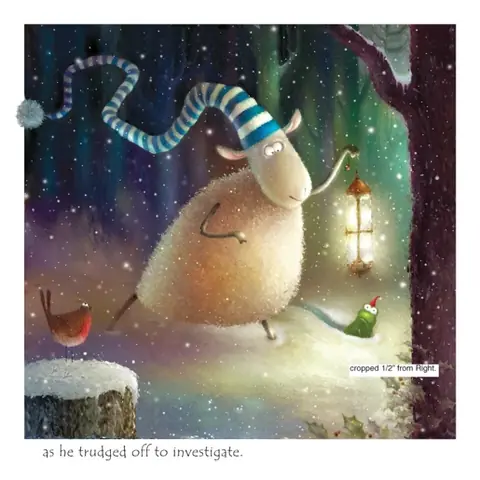
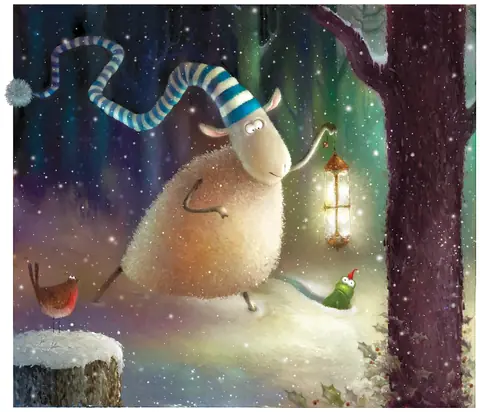
Russell page: clean page-9 picture; apostrophes in captions
- Page 9 ("trudged off") now uses a clean copy cut from Rob's file, without
  the printer's "cropped 1/2 in from right" note; 480/800/1200 px
- Viewer captions and alt text showed &#8217; instead of an apostrophe
  in seven places on the Russell page; builder now writes ’ directly

Claude-Session: https://claude.ai/code/session_017yD6ZUHwFALGaU6ihYKjiS

diff --git a/site/russell.html b/site/russell.html
@@ -44,7 +44,7 @@
 <section class="band tight inside" aria-label="Pictures from Russell the Sheep">
   <div class="wrap"><div class="inside-row">
     <figure style="margin:0" class="art tilt-l"><img src="img/cover-russell-sheep-493.webp" srcset="img/cover-russell-sheep-480.webp 480w, img/cover-russell-sheep-493.webp 493w" sizes="(max-width:860px) 45vw, 22vw" width="493" height="500" alt="Russell the Sheep book cover" loading="lazy" decoding="async" ></figure>
-    <figure style="margin:0"><button class="zoom art" data-full="img/russell-what-to-do-1200.webp" data-caption="What&amp;#8217;s a sheep to do?" aria-label="View larger: Russell standing wide awake in his striped nightcap"><img src="img/russell-what-to-do-1200.webp" srcset="img/russell-what-to-do-480.webp 480w, img/russell-what-to-do-800.webp 800w, img/russell-what-to-do-1200.webp 1200w" sizes="(max-width:540px) 100vw, (max-width:900px) 50vw, 33vw" width="1200" height="1200" alt="Russell standing wide awake in his striped nightcap" loading="lazy" decoding="async" ></button><figcaption>What&#8217;s a sheep to do?</figcaption></figure>
+    <figure style="margin:0"><button class="zoom art" data-full="img/russell-what-to-do-1200.webp" data-caption="What’s a sheep to do?" aria-label="View larger: Russell standing wide awake in his striped nightcap"><img src="img/russell-what-to-do-1200.webp" srcset="img/russell-what-to-do-480.webp 480w, img/russell-what-to-do-800.webp 800w, img/russell-what-to-do-1200.webp 1200w" sizes="(max-width:540px) 100vw, (max-width:900px) 50vw, 33vw" width="1200" height="1200" alt="Russell standing wide awake in his striped nightcap" loading="lazy" decoding="async" ></button><figcaption>What&#8217;s a sheep to do?</figcaption></figure>
     <figure style="margin:0"><button class="zoom art" data-full="img/russell-swing-1200.webp" data-caption="One more try" aria-label="View larger: Russell swinging from a tree while Frankie clings to the trunk"><img src="img/russell-swing-1200.webp" srcset="img/russell-swing-480.webp 480w, img/russell-swing-800.webp 800w, img/russell-swing-1200.webp 1200w" sizes="(max-width:540px) 100vw, (max-width:900px) 50vw, 33vw" width="1200" height="1200" alt="Russell swinging from a tree while Frankie clings to the trunk" loading="lazy" decoding="async" ></button><figcaption>One more try</figcaption></figure>
     <figure style="margin:0"><button class="zoom art" data-full="img/russell-sleeps-1200.webp" data-caption="Russell sleeps, at last!" aria-label="View larger: Russell asleep under a patchwork quilt"><img src="img/russell-sleeps-1200.webp" srcset="img/russell-sleeps-480.webp 480w, img/russell-sleeps-800.webp 800w, img/russell-sleeps-1200.webp 1200w" sizes="(max-width:540px) 100vw, (max-width:900px) 50vw, 33vw" width="1200" height="1200" alt="Russell asleep under a patchwork quilt" loading="lazy" decoding="async" ></button><figcaption>Russell sleeps, at last!</figcaption></figure>
   </div></div>
@@ -86,10 +86,10 @@
 <section class="band tight inside" aria-label="Pictures from Russell's Christmas Magic">
   <div class="wrap">
     <div class="inside-row">
-      <figure style="margin:0" class="art tilt-l"><img src="img/cover-russell-xmas-312.webp" srcset="img/cover-russell-xmas-312.webp 312w" sizes="(max-width:860px) 60vw, 22vw" width="312" height="312" alt="Russell&amp;#8217;s Christmas Magic book cover" loading="lazy" decoding="async" ></figure>
-      <figure style="margin:0"><button class="zoom art" data-full="img/russell-p8-495.webp" data-caption="Russell&amp;#8217;s Christmas Magic" aria-label="View larger: Russell trudging through the snow"><img src="img/russell-p8-495.webp" srcset="img/russell-p8-480.webp 480w, img/russell-p8-495.webp 495w" sizes="(max-width:540px) 100vw, (max-width:900px) 50vw, 33vw" width="495" height="495" alt="Russell trudging through the snow" loading="lazy" decoding="async" ></button><figcaption>Russell&#8217;s Christmas Magic</figcaption></figure>
-      <figure style="margin:0"><button class="zoom art" data-full="img/russell-p9-515.webp" data-caption="Russell&amp;#8217;s Christmas Magic" aria-label="View larger: Russell listening at the edge of the wood"><img src="img/russell-p9-515.webp" srcset="img/russell-p9-480.webp 480w, img/russell-p9-515.webp 515w" sizes="(max-width:540px) 100vw, (max-width:900px) 50vw, 33vw" width="515" height="515" alt="Russell listening at the edge of the wood" loading="lazy" decoding="async" ></button><figcaption>Russell&#8217;s Christmas Magic</figcaption></figure>
-      <figure style="margin:0"><button class="zoom art" data-full="img/russell-art-14-963.webp" data-caption="Russell&amp;#8217;s Christmas Magic" aria-label="View larger: Santa&amp;#8217;s crashed sleigh in the snow"><img src="img/russell-art-14-963.webp" srcset="img/russell-art-14-480.webp 480w, img/russell-art-14-800.webp 800w, img/russell-art-14-963.webp 963w" sizes="(max-width:540px) 100vw, (max-width:900px) 50vw, 33vw" width="963" height="393" alt="Santa&amp;#8217;s crashed sleigh in the snow" loading="lazy" decoding="async" ></button><figcaption>Russell&#8217;s Christmas Magic</figcaption></figure>
+      <figure style="margin:0" class="art tilt-l"><img src="img/cover-russell-xmas-312.webp" srcset="img/cover-russell-xmas-312.webp 312w" sizes="(max-width:860px) 60vw, 22vw" width="312" height="312" alt="Russell’s Christmas Magic book cover" loading="lazy" decoding="async" ></figure>
+      <figure style="margin:0"><button class="zoom art" data-full="img/russell-p8-495.webp" data-caption="Russell’s Christmas Magic" aria-label="View larger: Russell trudging through the snow"><img src="img/russell-p8-495.webp" srcset="img/russell-p8-480.webp 480w, img/russell-p8-495.webp 495w" sizes="(max-width:540px) 100vw, (max-width:900px) 50vw, 33vw" width="495" height="495" alt="Russell trudging through the snow" loading="lazy" decoding="async" ></button><figcaption>Russell&#8217;s Christmas Magic</figcaption></figure>
+      <figure style="margin:0"><button class="zoom art" data-full="img/russell-p9-1200.webp" data-caption="Russell’s Christmas Magic" aria-label="View larger: Russell listening at the edge of the wood"><img src="img/russell-p9-1200.webp" srcset="img/russell-p9-480.webp 480w, img/russell-p9-800.webp 800w, img/russell-p9-1200.webp 1200w" sizes="(max-width:540px) 100vw, (max-width:900px) 50vw, 33vw" width="1200" height="1030" alt="Russell listening at the edge of the wood" loading="lazy" decoding="async" ></button><figcaption>Russell&#8217;s Christmas Magic</figcaption></figure>
+      <figure style="margin:0"><button class="zoom art" data-full="img/russell-art-14-963.webp" data-caption="Russell’s Christmas Magic" aria-label="View larger: Santa’s crashed sleigh in the snow"><img src="img/russell-art-14-963.webp" srcset="img/russell-art-14-480.webp 480w, img/russell-art-14-800.webp 800w, img/russell-art-14-963.webp 963w" sizes="(max-width:540px) 100vw, (max-width:900px) 50vw, 33vw" width="963" height="393" alt="Santa’s crashed sleigh in the snow" loading="lazy" decoding="async" ></button><figcaption>Russell&#8217;s Christmas Magic</figcaption></figure>
     </div>
   </div>
 </section>
@@ -128,7 +128,7 @@
 <section class="band buy-band" id="buy" aria-labelledby="buy-h">
   <div class="wrap">
     <div class="buy-head"><div><h2 id="buy-h">Where to buy Russell</h2><p class="lede">Russell the Sheep was first published by HarperCollins in the US and HarperCollins Children's Books in the UK. Choose your country to see the right editions.</p></div><div class="region-toggle" role="group" aria-label="Choose your country"><button type="button" data-set="us" aria-pressed="true">United States</button><button type="button" data-set="uk" aria-pressed="false">United Kingdom</button></div></div>
-    <div class="buy-grid" data-buy><article class="buy-card"><div class="buy-cover"><img src="img/cover-russell-sheep-493.webp" srcset="img/cover-russell-sheep-480.webp 480w, img/cover-russell-sheep-493.webp 493w" sizes="160px" width="493" height="500" alt="Russell the Sheep book cover" loading="lazy" decoding="async" ></div><div class="buy-body"><h3>Russell the Sheep</h3><p class="buy-note">The original story of a sheep who cannot sleep.</p><div class="region" data-region="us"><div class="fmt-row"><p class="fmt">Paperback <span>ISBN 9780062392435</span></p><div class="shops"><a class="shop" href="https://www.harpercollins.com/search?q=9780062392435" target="_blank" rel="noopener">HarperCollins</a><a class="shop" href="https://www.amazon.com/dp/0062392433" target="_blank" rel="noopener">Amazon</a><a class="shop" href="https://www.barnesandnoble.com/s/9780062392435" target="_blank" rel="noopener">Barnes &amp; Noble</a><a class="shop" href="https://bookshop.org/search?keywords=9780062392435" target="_blank" rel="noopener">Bookshop.org</a></div></div><div class="fmt-row"><p class="fmt">Board book <span>ISBN 9780061709968</span></p><div class="shops"><a class="shop" href="https://www.harpercollins.com/search?q=9780061709968" target="_blank" rel="noopener">HarperCollins</a><a class="shop" href="https://www.amazon.com/dp/0061709964" target="_blank" rel="noopener">Amazon</a><a class="shop" href="https://www.barnesandnoble.com/s/9780061709968" target="_blank" rel="noopener">Barnes &amp; Noble</a><a class="shop" href="https://bookshop.org/search?keywords=9780061709968" target="_blank" rel="noopener">Bookshop.org</a></div></div><div class="fmt-row"><p class="fmt">Hardcover <span>ISBN 9780060598488</span></p><div class="shops"><a class="shop" href="https://www.harpercollins.com/search?q=9780060598488" target="_blank" rel="noopener">HarperCollins</a><a class="shop" href="https://www.amazon.com/dp/0060598484" target="_blank" rel="noopener">Amazon</a><a class="shop" href="https://www.barnesandnoble.com/s/9780060598488" target="_blank" rel="noopener">Barnes &amp; Noble</a><a class="shop" href="https://bookshop.org/search?keywords=9780060598488" target="_blank" rel="noopener">Bookshop.org</a></div></div></div><div class="region" data-region="uk" hidden><div class="fmt-row"><p class="fmt">UK edition <span>ISBN 9780007206223</span></p><div class="shops"><a class="shop" href="https://www.amazon.co.uk/s?k=9780007206223&amp;i=stripbooks" target="_blank" rel="noopener">Amazon UK</a><a class="shop" href="https://blackwells.co.uk/bookshop/search/?keyword=9780007206223" target="_blank" rel="noopener">Blackwell&#8217;s</a><a class="shop" href="https://uk.bookshop.org/search?keywords=9780007206223" target="_blank" rel="noopener">Bookshop.org UK</a></div></div></div></div></article><article class="buy-card"><div class="buy-cover"><img src="img/cover-russell-treasure-500.webp" srcset="img/cover-russell-treasure-480.webp 480w, img/cover-russell-treasure-500.webp 500w" sizes="160px" width="500" height="484" alt="Russell and the Lost Treasure book cover" loading="lazy" decoding="async" ></div><div class="buy-body"><h3>Russell and the Lost Treasure</h3><p class="buy-note">Russell goes looking for treasure in Frogsbottom Field.</p><div class="region" data-region="us"><div class="fmt-row"><p class="fmt">Hardcover <span>ISBN 9780060598518</span></p><div class="shops"><a class="shop" href="https://www.harpercollins.com/search?q=9780060598518" target="_blank" rel="noopener">HarperCollins</a><a class="shop" href="https://www.amazon.com/dp/0060598514" target="_blank" rel="noopener">Amazon</a><a class="shop" href="https://www.barnesandnoble.com/s/9780060598518" target="_blank" rel="noopener">Barnes &amp; Noble</a><a class="shop" href="https://bookshop.org/search?keywords=9780060598518" target="_blank" rel="noopener">Bookshop.org</a></div></div></div><div class="region" data-region="uk" hidden><div class="fmt-row"><p class="fmt">UK edition <span>ISBN 9780007206254</span></p><div class="shops"><a class="shop" href="https://www.amazon.co.uk/s?k=9780007206254&amp;i=stripbooks" target="_blank" rel="noopener">Amazon UK</a><a class="shop" href="https://blackwells.co.uk/bookshop/search/?keyword=9780007206254" target="_blank" rel="noopener">Blackwell&#8217;s</a><a class="shop" href="https://uk.bookshop.org/search?keywords=9780007206254" target="_blank" rel="noopener">Bookshop.org UK</a></div></div></div></div></article><article class="buy-card"><div class="buy-cover"><img src="img/cover-russell-xmas-312.webp" srcset="img/cover-russell-xmas-312.webp 312w" sizes="160px" width="312" height="312" alt="Russell&amp;#8217;s Christmas Magic book cover" loading="lazy" decoding="async" ></div><div class="buy-body"><h3>Russell&#8217;s Christmas Magic</h3><p class="buy-note">Santa crashes in Firefly Wood, and Russell has a woolly idea.</p><div class="region" data-region="us"><div class="fmt-row"><p class="fmt">Hardcover <span>ISBN 9780060598549</span></p><div class="shops"><a class="shop" href="https://www.harpercollins.com/search?q=9780060598549" target="_blank" rel="noopener">HarperCollins</a><a class="shop" href="https://www.amazon.com/dp/0060598549" target="_blank" rel="noopener">Amazon</a><a class="shop" href="https://www.barnesandnoble.com/s/9780060598549" target="_blank" rel="noopener">Barnes &amp; Noble</a><a class="shop" href="https://bookshop.org/search?keywords=9780060598549" target="_blank" rel="noopener">Bookshop.org</a></div></div></div><div class="region" data-region="uk" hidden><div class="fmt-row"><p class="fmt">UK edition <span>ISBN 9780007262946</span></p><div class="shops"><a class="shop" href="https://www.amazon.co.uk/s?k=9780007262946&amp;i=stripbooks" target="_blank" rel="noopener">Amazon UK</a><a class="shop" href="https://blackwells.co.uk/bookshop/search/?keyword=9780007262946" target="_blank" rel="noopener">Blackwell&#8217;s</a><a class="shop" href="https://uk.bookshop.org/search?keywords=9780007262946" target="_blank" rel="noopener">Bookshop.org UK</a></div></div></div></div></article></div>
+    <div class="buy-grid" data-buy><article class="buy-card"><div class="buy-cover"><img src="img/cover-russell-sheep-493.webp" srcset="img/cover-russell-sheep-480.webp 480w, img/cover-russell-sheep-493.webp 493w" sizes="160px" width="493" height="500" alt="Russell the Sheep book cover" loading="lazy" decoding="async" ></div><div class="buy-body"><h3>Russell the Sheep</h3><p class="buy-note">The original story of a sheep who cannot sleep.</p><div class="region" data-region="us"><div class="fmt-row"><p class="fmt">Paperback <span>ISBN 9780062392435</span></p><div class="shops"><a class="shop" href="https://www.harpercollins.com/search?q=9780062392435" target="_blank" rel="noopener">HarperCollins</a><a class="shop" href="https://www.amazon.com/dp/0062392433" target="_blank" rel="noopener">Amazon</a><a class="shop" href="https://www.barnesandnoble.com/s/9780062392435" target="_blank" rel="noopener">Barnes &amp; Noble</a><a class="shop" href="https://bookshop.org/search?keywords=9780062392435" target="_blank" rel="noopener">Bookshop.org</a></div></div><div class="fmt-row"><p class="fmt">Board book <span>ISBN 9780061709968</span></p><div class="shops"><a class="shop" href="https://www.harpercollins.com/search?q=9780061709968" target="_blank" rel="noopener">HarperCollins</a><a class="shop" href="https://www.amazon.com/dp/0061709964" target="_blank" rel="noopener">Amazon</a><a class="shop" href="https://www.barnesandnoble.com/s/9780061709968" target="_blank" rel="noopener">Barnes &amp; Noble</a><a class="shop" href="https://bookshop.org/search?keywords=9780061709968" target="_blank" rel="noopener">Bookshop.org</a></div></div><div class="fmt-row"><p class="fmt">Hardcover <span>ISBN 9780060598488</span></p><div class="shops"><a class="shop" href="https://www.harpercollins.com/search?q=9780060598488" target="_blank" rel="noopener">HarperCollins</a><a class="shop" href="https://www.amazon.com/dp/0060598484" target="_blank" rel="noopener">Amazon</a><a class="shop" href="https://www.barnesandnoble.com/s/9780060598488" target="_blank" rel="noopener">Barnes &amp; Noble</a><a class="shop" href="https://bookshop.org/search?keywords=9780060598488" target="_blank" rel="noopener">Bookshop.org</a></div></div></div><div class="region" data-region="uk" hidden><div class="fmt-row"><p class="fmt">UK edition <span>ISBN 9780007206223</span></p><div class="shops"><a class="shop" href="https://www.amazon.co.uk/s?k=9780007206223&amp;i=stripbooks" target="_blank" rel="noopener">Amazon UK</a><a class="shop" href="https://blackwells.co.uk/bookshop/search/?keyword=9780007206223" target="_blank" rel="noopener">Blackwell&#8217;s</a><a class="shop" href="https://uk.bookshop.org/search?keywords=9780007206223" target="_blank" rel="noopener">Bookshop.org UK</a></div></div></div></div></article><article class="buy-card"><div class="buy-cover"><img src="img/cover-russell-treasure-500.webp" srcset="img/cover-russell-treasure-480.webp 480w, img/cover-russell-treasure-500.webp 500w" sizes="160px" width="500" height="484" alt="Russell and the Lost Treasure book cover" loading="lazy" decoding="async" ></div><div class="buy-body"><h3>Russell and the Lost Treasure</h3><p class="buy-note">Russell goes looking for treasure in Frogsbottom Field.</p><div class="region" data-region="us"><div class="fmt-row"><p class="fmt">Hardcover <span>ISBN 9780060598518</span></p><div class="shops"><a class="shop" href="https://www.harpercollins.com/search?q=9780060598518" target="_blank" rel="noopener">HarperCollins</a><a class="shop" href="https://www.amazon.com/dp/0060598514" target="_blank" rel="noopener">Amazon</a><a class="shop" href="https://www.barnesandnoble.com/s/9780060598518" target="_blank" rel="noopener">Barnes &amp; Noble</a><a class="shop" href="https://bookshop.org/search?keywords=9780060598518" target="_blank" rel="noopener">Bookshop.org</a></div></div></div><div class="region" data-region="uk" hidden><div class="fmt-row"><p class="fmt">UK edition <span>ISBN 9780007206254</span></p><div class="shops"><a class="shop" href="https://www.amazon.co.uk/s?k=9780007206254&amp;i=stripbooks" target="_blank" rel="noopener">Amazon UK</a><a class="shop" href="https://blackwells.co.uk/bookshop/search/?keyword=9780007206254" target="_blank" rel="noopener">Blackwell&#8217;s</a><a class="shop" href="https://uk.bookshop.org/search?keywords=9780007206254" target="_blank" rel="noopener">Bookshop.org UK</a></div></div></div></div></article><article class="buy-card"><div class="buy-cover"><img src="img/cover-russell-xmas-312.webp" srcset="img/cover-russell-xmas-312.webp 312w" sizes="160px" width="312" height="312" alt="Russell’s Christmas Magic book cover" loading="lazy" decoding="async" ></div><div class="buy-body"><h3>Russell&#8217;s Christmas Magic</h3><p class="buy-note">Santa crashes in Firefly Wood, and Russell has a woolly idea.</p><div class="region" data-region="us"><div class="fmt-row"><p class="fmt">Hardcover <span>ISBN 9780060598549</span></p><div class="shops"><a class="shop" href="https://www.harpercollins.com/search?q=9780060598549" target="_blank" rel="noopener">HarperCollins</a><a class="shop" href="https://www.amazon.com/dp/0060598549" target="_blank" rel="noopener">Amazon</a><a class="shop" href="https://www.barnesandnoble.com/s/9780060598549" target="_blank" rel="noopener">Barnes &amp; Noble</a><a class="shop" href="https://bookshop.org/search?keywords=9780060598549" target="_blank" rel="noopener">Bookshop.org</a></div></div></div><div class="region" data-region="uk" hidden><div class="fmt-row"><p class="fmt">UK edition <span>ISBN 9780007262946</span></p><div class="shops"><a class="shop" href="https://www.amazon.co.uk/s?k=9780007262946&amp;i=stripbooks" target="_blank" rel="noopener">Amazon UK</a><a class="shop" href="https://blackwells.co.uk/bookshop/search/?keyword=9780007262946" target="_blank" rel="noopener">Blackwell&#8217;s</a><a class="shop" href="https://uk.bookshop.org/search?keywords=9780007262946" target="_blank" rel="noopener">Bookshop.org UK</a></div></div></div></div></article></div>
     <p class="buy-fine">Links open the retailer&#8217;s own site. Availability, editions and prices are set by each retailer.</p>
   </div>
 </section>

diff --git a/tools/build.py b/tools/build.py
@@ -216,7 +216,7 @@ def isbn10(i13):
     return core+('X' if c==10 else str(c))
 
 US_SHOPS=[("HarperCollins","https://www.harpercollins.com/search?q={i13}"),("Amazon","https://www.amazon.com/dp/{i10}"),("Barnes &amp; Noble","https://www.barnesandnoble.com/s/{i13}"),("Bookshop.org","https://bookshop.org/search?keywords={i13}")]
-UK_SHOPS=[("Amazon UK","https://www.amazon.co.uk/s?k={i13}&amp;i=stripbooks"),("Blackwell&#8217;s","https://blackwells.co.uk/bookshop/search/?keyword={i13}"),("Bookshop.org UK","https://uk.bookshop.org/search?keywords={i13}")]
+UK_SHOPS=[("Amazon UK","https://www.amazon.co.uk/s?k={i13}&amp;i=stripbooks"),("Blackwell’s","https://blackwells.co.uk/bookshop/search/?keyword={i13}"),("Bookshop.org UK","https://uk.bookshop.org/search?keywords={i13}")]
 
 def shop_links(i13, shops):
     return "".join(f'<a class="shop" href="{u.format(i13=i13,i10=isbn10(i13))}" target="_blank" rel="noopener">{n}</a>' for n,u in shops)
@@ -235,7 +235,7 @@ def buy_section(heading, intro, cards, regions=False):
   <div class="wrap">
     <div class="buy-head"><div><h2 id="buy-h">{heading}</h2><p class="lede">{intro}</p></div>{toggle}</div>
     <div class="buy-grid" data-buy>{"".join(cards)}</div>
-    <p class="buy-fine">Links open the retailer&#8217;s own site. Availability, editions and prices are set by each retailer.</p>
+    <p class="buy-fine">Links open the retailer’s own site. Availability, editions and prices are set by each retailer.</p>
   </div>
 </section>
 '''
@@ -352,7 +352,7 @@ story = """<p>I was riding my bike through a field in Rutland, near where I live
 <blockquote>By Granny Oldwool’s beard, there may be something there…</blockquote>
 <p>Oh, and of course, there’s also a little frog… and an ant. Job done!</p>"""
 
-DRAWERS = [("russell-the-sheep","Russell the Sheep"),("lost-treasure","Lost Treasure"),("christmas-magic","Christmas Magic"),("story","Russell&#8217;s story")]
+DRAWERS = [("russell-the-sheep","Russell the Sheep"),("lost-treasure","Lost Treasure"),("christmas-magic","Christmas Magic"),("story","Russell’s story")]
 drw_chips = '<nav class="drw-chips" aria-label="On this page">' + "".join(f'<a href="#{k}">{t}</a>' for k,t in DRAWERS) + '</nav>'
 
 russell = f'''
@@ -362,7 +362,7 @@ russell = f'''
   <div class="wrap"><div class="copy">
     <p class="kicker">Book one, 2005</p>
     <h1>Russell the Sheep</h1>
-    <p class="lede">Night falls on Frogsbottom Field and every sheep is fast asleep, except Russell. He tries everything: a new hat, a bed up a tree, counting his feet, counting the stars. There&#8217;s only one thing left to try. Counting sheep!</p>
+    <p class="lede">Night falls on Frogsbottom Field and every sheep is fast asleep, except Russell. He tries everything: a new hat, a bed up a tree, counting his feet, counting the stars. There’s only one thing left to try. Counting sheep!</p>
     <a class="btn teal" href="#buy">Where to buy {ARROW}</a>
   </div></div>
 </header>
@@ -370,7 +370,7 @@ russell = f'''
 <section class="band tight inside" aria-label="Pictures from Russell the Sheep">
   <div class="wrap"><div class="inside-row">
     <figure style="margin:0" class="art tilt-l">{pic("cover-russell-sheep","Russell the Sheep book cover","(max-width:860px) 45vw, 22vw")}</figure>
-    {zoom("russell-what-to-do","Russell standing wide awake in his striped nightcap","What&#8217;s a sheep to do?")}
+    {zoom("russell-what-to-do","Russell standing wide awake in his striped nightcap","What’s a sheep to do?")}
     {zoom("russell-swing","Russell swinging from a tree while Frankie clings to the trunk","One more try")}
     {zoom("russell-sleeps","Russell asleep under a patchwork quilt","Russell sleeps, at last!")}
   </div></div>
@@ -383,7 +383,7 @@ russell = f'''
   <div class="wrap"><div class="copy">
     <p class="kicker">Book two, 2006</p>
     <h2 id="treasure-h">Russell and the Lost Treasure</h2>
-    <p class="lede">Legend has it there&#8217;s a treasure lost somewhere in Frogsbottom Field. Russell builds a homemade treasure detector and goes looking, and the chest he finds holds a surprising prize.</p>
+    <p class="lede">Legend has it there’s a treasure lost somewhere in Frogsbottom Field. Russell builds a homemade treasure detector and goes looking, and the chest he finds holds a surprising prize.</p>
     <a class="btn teal" href="#buy">Where to buy {ARROW}</a>
   </div></div>
   <img class="frankie-peek" src="img/frankie-grin-193.webp" alt="" width="193" height="505" loading="lazy">
@@ -404,18 +404,18 @@ russell = f'''
   <div class="snow" aria-hidden="true"></div>
   <div class="wrap"><div class="copy">
     <p class="kicker">Book three, 2007</p>
-    <h2 id="xmas-h">Russell&#8217;s Christmas Magic</h2>
-    <p class="lede">Santa Claus&#8217;s sleigh crashes in Firefly Wood and the Christmas Spell is broken. Santa declares that Christmas must be cancelled. But our fleecy hero doesn&#8217;t give up easily, and he soon has a woolly idea that just might save the day.</p>
+    <h2 id="xmas-h">Russell’s Christmas Magic</h2>
+    <p class="lede">Santa Claus’s sleigh crashes in Firefly Wood and the Christmas Spell is broken. Santa declares that Christmas must be cancelled. But our fleecy hero doesn’t give up easily, and he soon has a woolly idea that just might save the day.</p>
     <a class="btn teal" href="#buy">Where to buy {ARROW}</a>
   </div></div>
 </section>
 <section class="band tight inside" aria-label="Pictures from Russell's Christmas Magic">
   <div class="wrap">
     <div class="inside-row">
-      <figure style="margin:0" class="art tilt-l">{pic("cover-russell-xmas","Russell&#8217;s Christmas Magic book cover","(max-width:860px) 60vw, 22vw")}</figure>
-      {zoom("russell-p8","Russell trudging through the snow","Russell&#8217;s Christmas Magic")}
-      {zoom("russell-p9","Russell listening at the edge of the wood","Russell&#8217;s Christmas Magic")}
-      {zoom("russell-art-14","Santa&#8217;s crashed sleigh in the snow","Russell&#8217;s Christmas Magic")}
+      <figure style="margin:0" class="art tilt-l">{pic("cover-russell-xmas","Russell’s Christmas Magic book cover","(max-width:860px) 60vw, 22vw")}</figure>
+      {zoom("russell-p8","Russell trudging through the snow","Russell’s Christmas Magic")}
+      {zoom("russell-p9","Russell listening at the edge of the wood","Russell’s Christmas Magic")}
+      {zoom("russell-art-14","Santa’s crashed sleigh in the snow","Russell’s Christmas Magic")}
     </div>
   </div>
 </section>
@@ -444,9 +444,9 @@ russell = f'''
   <div class="fx" data-fx="count" data-x="54" data-y="52" aria-hidden="true"></div>
   <div class="wrap"><div class="copy">
     <p class="kicker">So how did it all begin?</p>
-    <h2 id="story-h">Russell&#8217;s story, according to Rob</h2>
-    <p class="lede">A bike ride through a field in Rutland, a flock of sheep staring back, and an idea Rob kept dismissing. Here&#8217;s how Russell came to be.</p>
-    <a class="btn" href="russells-story.html">Read Russell&#8217;s story {ARROW}</a>
+    <h2 id="story-h">Russell’s story, according to Rob</h2>
+    <p class="lede">A bike ride through a field in Rutland, a flock of sheep staring back, and an idea Rob kept dismissing. Here’s how Russell came to be.</p>
+    <a class="btn" href="russells-story.html">Read Russell’s story {ARROW}</a>
   </div></div>
 </section>
 
@@ -458,7 +458,7 @@ russell = f'''
    buy_card("Russell and the Lost Treasure","Russell goes looking for treasure in Frogsbottom Field.","cover-russell-treasure",
       [("Hardcover","9780060598518")],
       [("UK edition","9780007206254")]),
-   buy_card("Russell&#8217;s Christmas Magic","Santa crashes in Firefly Wood, and Russell has a woolly idea.","cover-russell-xmas",
+   buy_card("Russell’s Christmas Magic","Santa crashes in Firefly Wood, and Russell has a woolly idea.","cover-russell-xmas",
       [("Hardcover","9780060598549")],
       [("UK edition","9780007262946")])],
   regions=True)}
@@ -481,7 +481,7 @@ storypage = f'''
     <div class="split" style="align-items:start">
       <div>
         <p class="kicker" style="color:var(--teal-2)">So how did it all begin?</p>
-        <h1 id="story-h" style="font-size:clamp(2.4rem,5vw,4rem)">Russell&#8217;s story, according to Rob</h1>
+        <h1 id="story-h" style="font-size:clamp(2.4rem,5vw,4rem)">Russell’s story, according to Rob</h1>
         <div class="prose">{story}</div>
       </div>
       <div style="display:grid;gap:22px;position:sticky;top:90px">
@@ -580,7 +580,7 @@ about = f'''
       <p class="kicker">Author and artist</p>
       <h1>Meet Rob</h1>
       <p class="lede" style="color:var(--ink)">Rob Scotton is the bestselling author and illustrator behind Splat the Cat, Russell the Sheep and Max and Moonbean. He studied Illustration at De Montfort University, and lives and paints in Rutland, England, with his wife Liz, who is also an artist.</p>
-      <p>Splat began with a neighbour&#8217;s cat, a garden fence and a rather undignified landing. Seymour has been along for the ride since the very first book.</p>
+      <p>Splat began with a neighbour’s cat, a garden fence and a rather undignified landing. Seymour has been along for the ride since the very first book.</p>
     </div>
     <div class="stage"><figure class="art" style="margin:0;width:min(100%,420px);border-radius:50% 50% 46% 46% / 42% 42% 58% 58%">{pic("author","Rob Scotton","(max-width:860px) 80vw, 36vw",lazy=False)}</figure></div>
   </div>
@@ -592,12 +592,12 @@ about = f'''
       <div class="prose big">
         <p class="kicker">The long version</p>
         <h2 id="bio-h">From sketchbook to bookshelf</h2>
-        <p>Rob&#8217;s characters have a knack for finding adventure in everyday life, particularly when everyday life isn&#8217;t going quite according to plan.</p>
+        <p>Rob’s characters have a knack for finding adventure in everyday life, particularly when everyday life isn’t going quite according to plan.</p>
         <p>His own adventure in picture books began at a New York licensing show in 2004, when HarperCollins editor Maria Modugno spotted some of his character artwork. A conversation about a collection of images featuring a sheep named Russell, a cat named Splat, a pup called Max and the worlds they might inhabit led to a publishing home for his creations.</p>
-        <p>The first of those creations to reach the shelves was Russell the Sheep. The idea came on a bike ride through a field near Rob&#8217;s home in Rutland, where a flock of sheep sheltering from the sun shuffled along with the shadow of a tree as it moved. An old Easter card design gave Rob his woolly hero, the name stuck despite the pun, and the story arrived with one simple question: what if a sheep could not fall asleep, no matter how hard he tried? Published by HarperCollins in 2005, Russell the Sheep became Rob&#8217;s first New York Times bestseller, and Russell went on to star in Russell and the Lost Treasure and Russell&#8217;s Christmas Magic. <a href="russell.html">Read Russell&#8217;s story</a>.</p>
-        <p>The inspiration for Splat was most unexpected. While mowing the lawn, Rob watched a neighbour&#8217;s cat lose its balance on a fence and land with considerably less elegance than cats generally advertise. The word &#8220;Splat&#8221; sprang to mind, the lawn was temporarily forgotten, and a character began to take shape. Inspiration, it turns out, is all around.</p>
-        <p>With expressive faces, wayward fur and a fondness for visual mischief, Rob&#8217;s illustrations bring humour to the things that can feel enormous when you&#8217;re small: starting school, making friends, finding courage and getting something wrong. His characters may have paws or wool, but their feelings are reassuringly familiar.</p>
-        <p>Beyond books, Rob&#8217;s artwork has appeared on everything from greeting cards to ceramics and textiles. Quite a journey for a cat whose first significant move was falling off a fence.</p>
+        <p>The first of those creations to reach the shelves was Russell the Sheep. The idea came on a bike ride through a field near Rob’s home in Rutland, where a flock of sheep sheltering from the sun shuffled along with the shadow of a tree as it moved. An old Easter card design gave Rob his woolly hero, the name stuck despite the pun, and the story arrived with one simple question: what if a sheep could not fall asleep, no matter how hard he tried? Published by HarperCollins in 2005, Russell the Sheep became Rob’s first New York Times bestseller, and Russell went on to star in Russell and the Lost Treasure and Russell’s Christmas Magic. <a href="russell.html">Read Russell’s story</a>.</p>
+        <p>The inspiration for Splat was most unexpected. While mowing the lawn, Rob watched a neighbour’s cat lose its balance on a fence and land with considerably less elegance than cats generally advertise. The word &#8220;Splat&#8221; sprang to mind, the lawn was temporarily forgotten, and a character began to take shape. Inspiration, it turns out, is all around.</p>
+        <p>With expressive faces, wayward fur and a fondness for visual mischief, Rob’s illustrations bring humour to the things that can feel enormous when you’re small: starting school, making friends, finding courage and getting something wrong. His characters may have paws or wool, but their feelings are reassuringly familiar.</p>
+        <p>Beyond books, Rob’s artwork has appeared on everything from greeting cards to ceramics and textiles. Quite a journey for a cat whose first significant move was falling off a fence.</p>
       </div>
       <div style="display:grid;gap:22px">
         {zoom("early-sketches","Early pencil sketches of Splat","Early Splat sketches","(max-width:860px) 100vw, 45vw")}
@@ -614,7 +614,7 @@ about = f'''
     <ol class="timeline">
       <li><b>Art school</b><span>Studied Illustration at De Montfort University.</span></li>
       <li><b>2005: Russell the Sheep</b><span>His debut picture book, inspired by the sheep in the fields around his studio, and his first New York Times bestseller.</span></li>
-      <li><b>2008: Splat the Cat</b><span>Splat&#8217;s first day at Cat School, with Seymour hiding in his lunchbox.</span></li>
+      <li><b>2008: Splat the Cat</b><span>Splat’s first day at Cat School, with Seymour hiding in his lunchbox.</span></li>
       <li><b>A whole library</b><span>Dozens of Splat books since, up to Splat the Cat and the Obstacle Course in 2021. <a href="https://splatthecat.com/books.html" target="_blank" rel="noopener">See them all on splatthecat.com</a></span></li>
       <li><b>Max and Moonbean</b><span>A shy pup, a shooting star and a small blue astronaut who talks in bubbles. <a href="max.html">Meet Max</a></span></li>
     </ol>
@@ -646,23 +646,23 @@ def kb(path): return f"{round(os.path.getsize(path)/1024)} KB"
 
 RUSSELL_RES = [
   ("Teaching Ideas", "Ideas across the curriculum",
-   "Find more homophones like Russell and rustle, hunt for sound words, retell the story from the frog&#8217;s point of view, count as high as you can, design a new hat for Russell on a printable sheet, and talk about what helps us relax.",
+   "Find more homophones like Russell and rustle, hunt for sound words, retell the story from the frog’s point of view, count as high as you can, design a new hat for Russell on a printable sheet, and talk about what helps us relax.",
    ["English","Maths","Art","Geography","Wellbeing"], "By Mark Warner, Teaching Ideas", "teachingideas.co.uk",
    "https://www.teachingideas.co.uk/books/russell-the-sheep/", ""),
-  ("Surviving a Teacher&#8217;s Salary", "Crazy counting, Froggy&#8217;s eyes and a sleep cap",
-   "Count together in pairs, hunt the book for its biggest numbers, retell the night through the frog&#8217;s eyes, then make a stripy night cap for a favourite toy from an old sock. For ages 3 to 9.",
-   ["Maths","Writing","Craft"], "By Crystal at Surviving a Teacher&#8217;s Salary", "survivingateacherssalary.com",
+  ("Surviving a Teacher’s Salary", "Crazy counting, Froggy’s eyes and a sleep cap",
+   "Count together in pairs, hunt the book for its biggest numbers, retell the night through the frog’s eyes, then make a stripy night cap for a favourite toy from an old sock. For ages 3 to 9.",
+   ["Maths","Writing","Craft"], "By Crystal at Surviving a Teacher’s Salary", "survivingateacherssalary.com",
    "https://www.survivingateacherssalary.com/russell-the-sheep-lesson-plans-and-activity/", ""),
   ("Teaching notes", "Russell the Sheep teaching notes",
    "Questions for before and after reading, rhyming words and opposites, a word search and crossword, a look at how wool is made, and crafts from thumbprint sheep to cotton-wool lambs.",
    ["Reading","Science","Craft","Drama"], "By Christine Sarandis, shared by Pegi Williams Book Shop", "pegiwilliams.com.au (PDF)",
    "https://www.pegiwilliams.com.au/pdfs/teachernotes/9780007206223.pdf", ""),
   ("MathsThroughStories.org", "Counting forwards and backwards",
-   "Use Russell&#8217;s sleepless counting to practise counting up to, and back from, 10 or 20. For ages 4 and up.",
+   "Use Russell’s sleepless counting to practise counting up to, and back from, 10 or 20. For ages 4 and up.",
    ["Maths"], "By MathsThroughStories.org, University of Reading Institute of Education", "mathsthroughstories.org",
    "https://www.mathsthroughstories.org/russell-the-sheep.html", ""),
   ("Growing Book by Book", "Russell and the Lost Treasure: a family treasure book",
-   "Inspired by Russell&#8217;s treasure hunt, make a little book of the people who are your family treasure, with a photo and a label on every page.",
+   "Inspired by Russell’s treasure hunt, make a little book of the people who are your family treasure, with a photo and a label on every page.",
    ["Reading","Writing","Family"], "By Jodie Rodriguez, Growing Book by Book", "growingbookbybook.com",
    "https://growingbookbybook.com/russell-and-the-lost-treasure-digging-into-treasure-hunting/", "An older page from 2013, so a few of its links may no longer work."),
 ]
@@ -674,7 +674,7 @@ def res_card(provider, title, desc, tags, by, site, url, note):
 
 MAX_SHEETS = [
   ("colouring-sheets","max-colouring-sheets.pdf","Colour in Max","Two colouring sheets drawn by Rob: Max and Mr Ted flying through a shower of jigsaw pieces, and Max at his school desk. Each sheet has a question to talk about while you colour.","landscape, 2 pages"),
-  ("maze","max-moon-maze.pdf","Fly Max to the moon","Moonbean is waiting on the moon. Find the way through the maze from Max&#8217;s bubble.","1 page"),
+  ("maze","max-moon-maze.pdf","Fly Max to the moon","Moonbean is waiting on the moon. Find the way through the maze from Max’s bubble.","1 page"),
   ("code","max-bubble-speak-code.pdf","Bubble-speak secret code","Moonbean talks in bubbles. Use the key to read his message, then write one of your own for a friend.","1 page"),
   ("show","max-show-and-tell.pdf","My show-and-tell","Max found Moonbean. Draw what you would bring, then write about it.","1 page"),
 ]
@@ -702,11 +702,11 @@ activities = f"""
   <div class="wrap">
     <p class="kicker" style="color:var(--teal-2)">Russell the Sheep</p>
     <h2 id="ra-h">Count, colour and craft with Russell</h2>
-    <p class="lede">Start with Rob&#8217;s own colouring sheet, then try ideas from teachers and educators who have used Russell in their classrooms.</p>
+    <p class="lede">Start with Rob’s own colouring sheet, then try ideas from teachers and educators who have used Russell in their classrooms.</p>
 
-    <h3 class="act-sub">From Rob&#8217;s studio</h3>
+    <h3 class="act-sub">From Rob’s studio</h3>
     <div class="dl">
-      <a href="downloads/russell-colouring-sheet.jpg" download><img src="img/russell-colouring-300.webp" alt="" width="300" height="189" loading="lazy"><div><b>Russell&#8217;s Christmas Magic colouring sheet</b><span>Free to print and colour. Download</span></div></a>
+      <a href="downloads/russell-colouring-sheet.jpg" download><img src="img/russell-colouring-300.webp" alt="" width="300" height="189" loading="lazy"><div><b>Russell’s Christmas Magic colouring sheet</b><span>Free to print and colour. Download</span></div></a>
     </div>
 
     <h3 class="act-sub">From teachers and educators</h3>
@@ -719,14 +719,14 @@ activities = f"""
   <div class="wrap">
     <p class="kicker">Max and Moonbean</p>
     <h2 id="ma-h">Printables for little astronauts</h2>
-    <p class="lede">Brand-new activities made for this site from Rob&#8217;s own sketches and paintings. Each one is a single PDF, ready to print.</p>
+    <p class="lede">Brand-new activities made for this site from Rob’s own sketches and paintings. Each one is a single PDF, ready to print.</p>
     <div class="sheet-grid">{"".join(sheet_card(*s) for s in MAX_SHEETS)}</div>
 
     <div class="talk">
       <h3>Talking about the story</h3>
       <p>Questions for reading together at home or in class.</p>
       <ul>
-        <li>Max&#8217;s show-and-tells always seem to go wrong. Have you ever felt nervous about doing something in front of other people? What helped?</li>
+        <li>Max’s show-and-tells always seem to go wrong. Have you ever felt nervous about doing something in front of other people? What helped?</li>
         <li>When the blue thingy appears, Max wants to hide, but he steps forward and asks its name. What does being brave mean to you?</li>
         <li>Moonbean calls Max a &#8220;pup of courage&#8221;. Who helps you feel brave?</li>
         <li>If a shooting star landed in your room tonight, what would you hope to find?</li>
@@ -746,7 +746,7 @@ activities = f"""
 
 <section class="band yellow-band tight" aria-label="Splat activities">
   <div class="wrap" style="display:flex;flex-wrap:wrap;align-items:center;gap:22px;justify-content:space-between">
-    <div style="display:flex;align-items:center;gap:18px"><img src="img/splat-with-book-480.webp" alt="" width="480" height="511" style="width:96px" loading="lazy"><div><h3 style="margin:0">Looking for Splat?</h3><p style="margin:0">Splat&#8217;s colouring pages and lesson plans live on his own website.</p></div></div>
+    <div style="display:flex;align-items:center;gap:18px"><img src="img/splat-with-book-480.webp" alt="" width="480" height="511" style="width:96px" loading="lazy"><div><h3 style="margin:0">Looking for Splat?</h3><p style="margin:0">Splat’s colouring pages and lesson plans live on his own website.</p></div></div>
     <a class="btn red big" href="https://splatthecat.com/activities.html" target="_blank" rel="noopener">Splat activities {EXT}</a>
   </div>
 </section>
